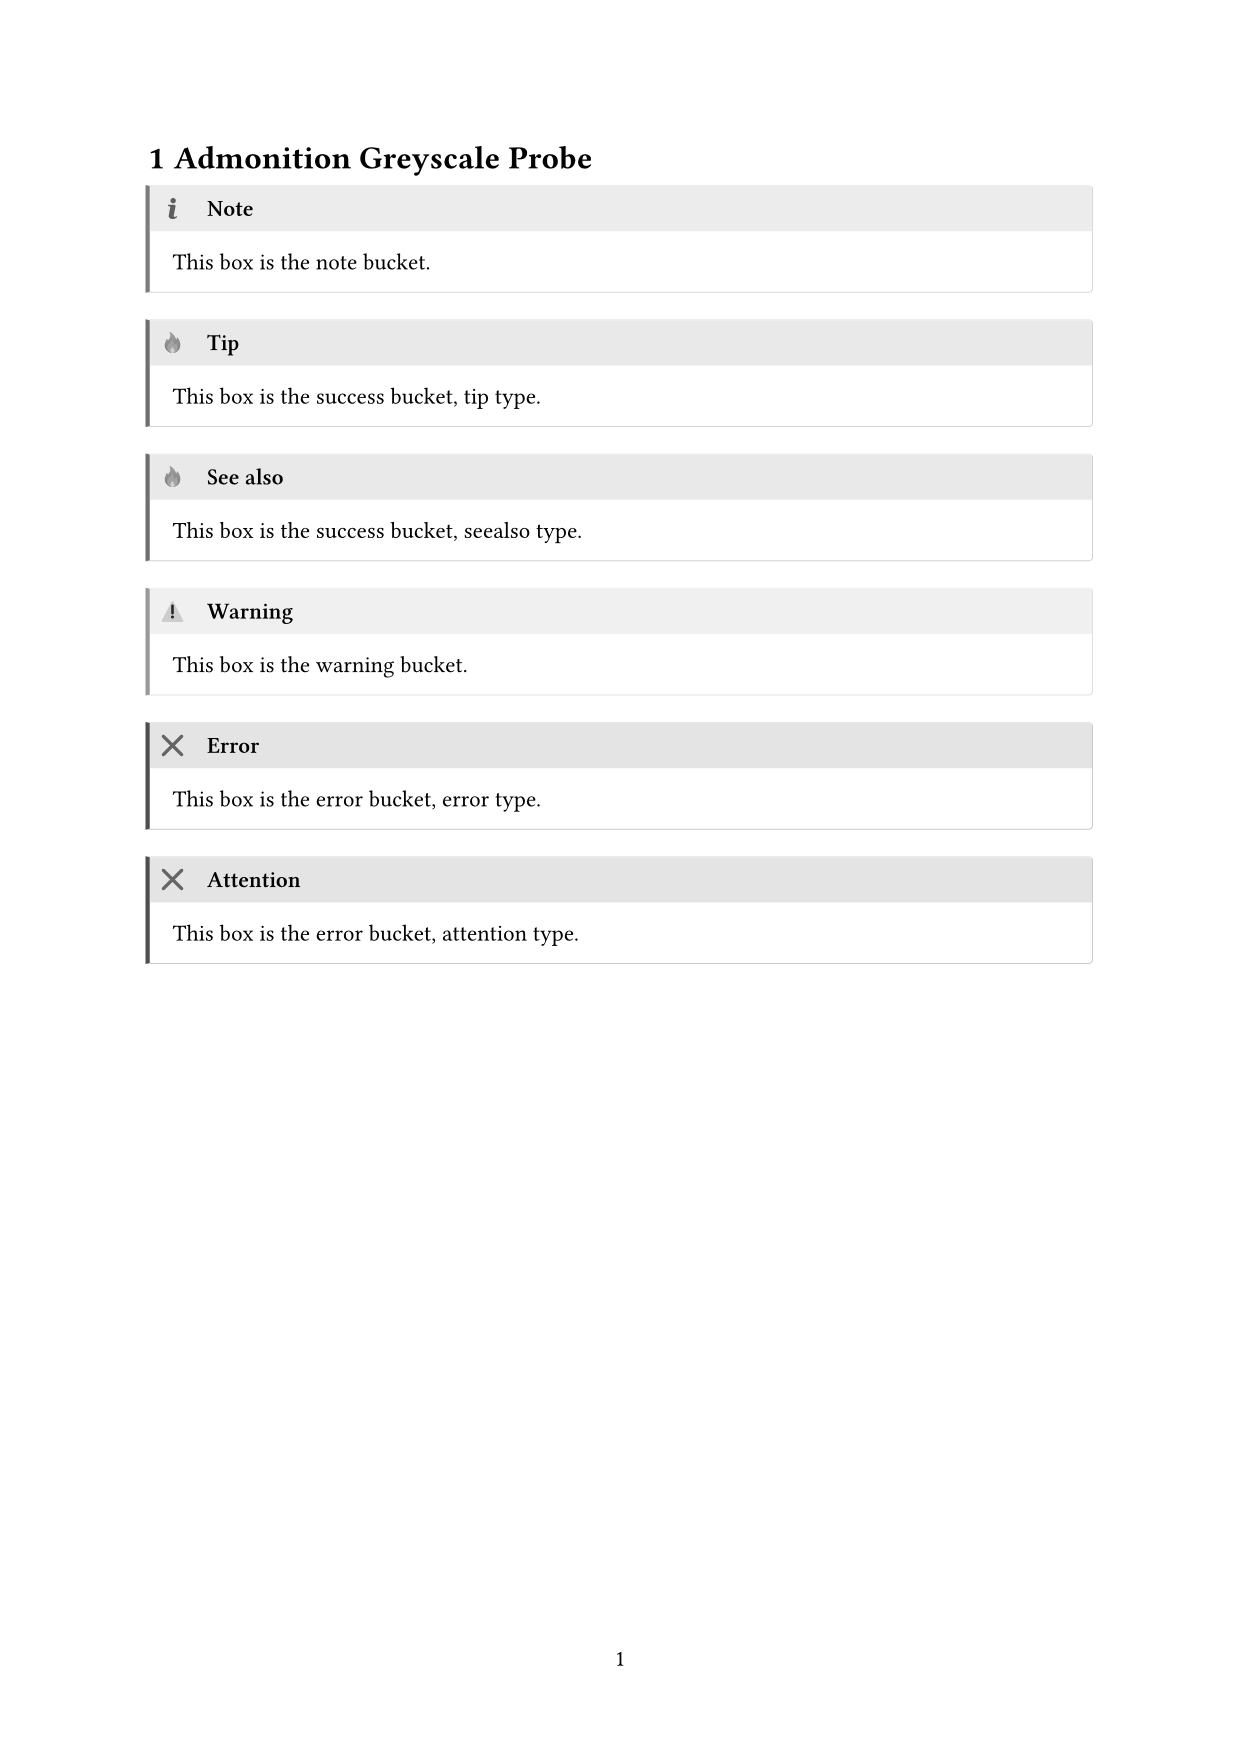
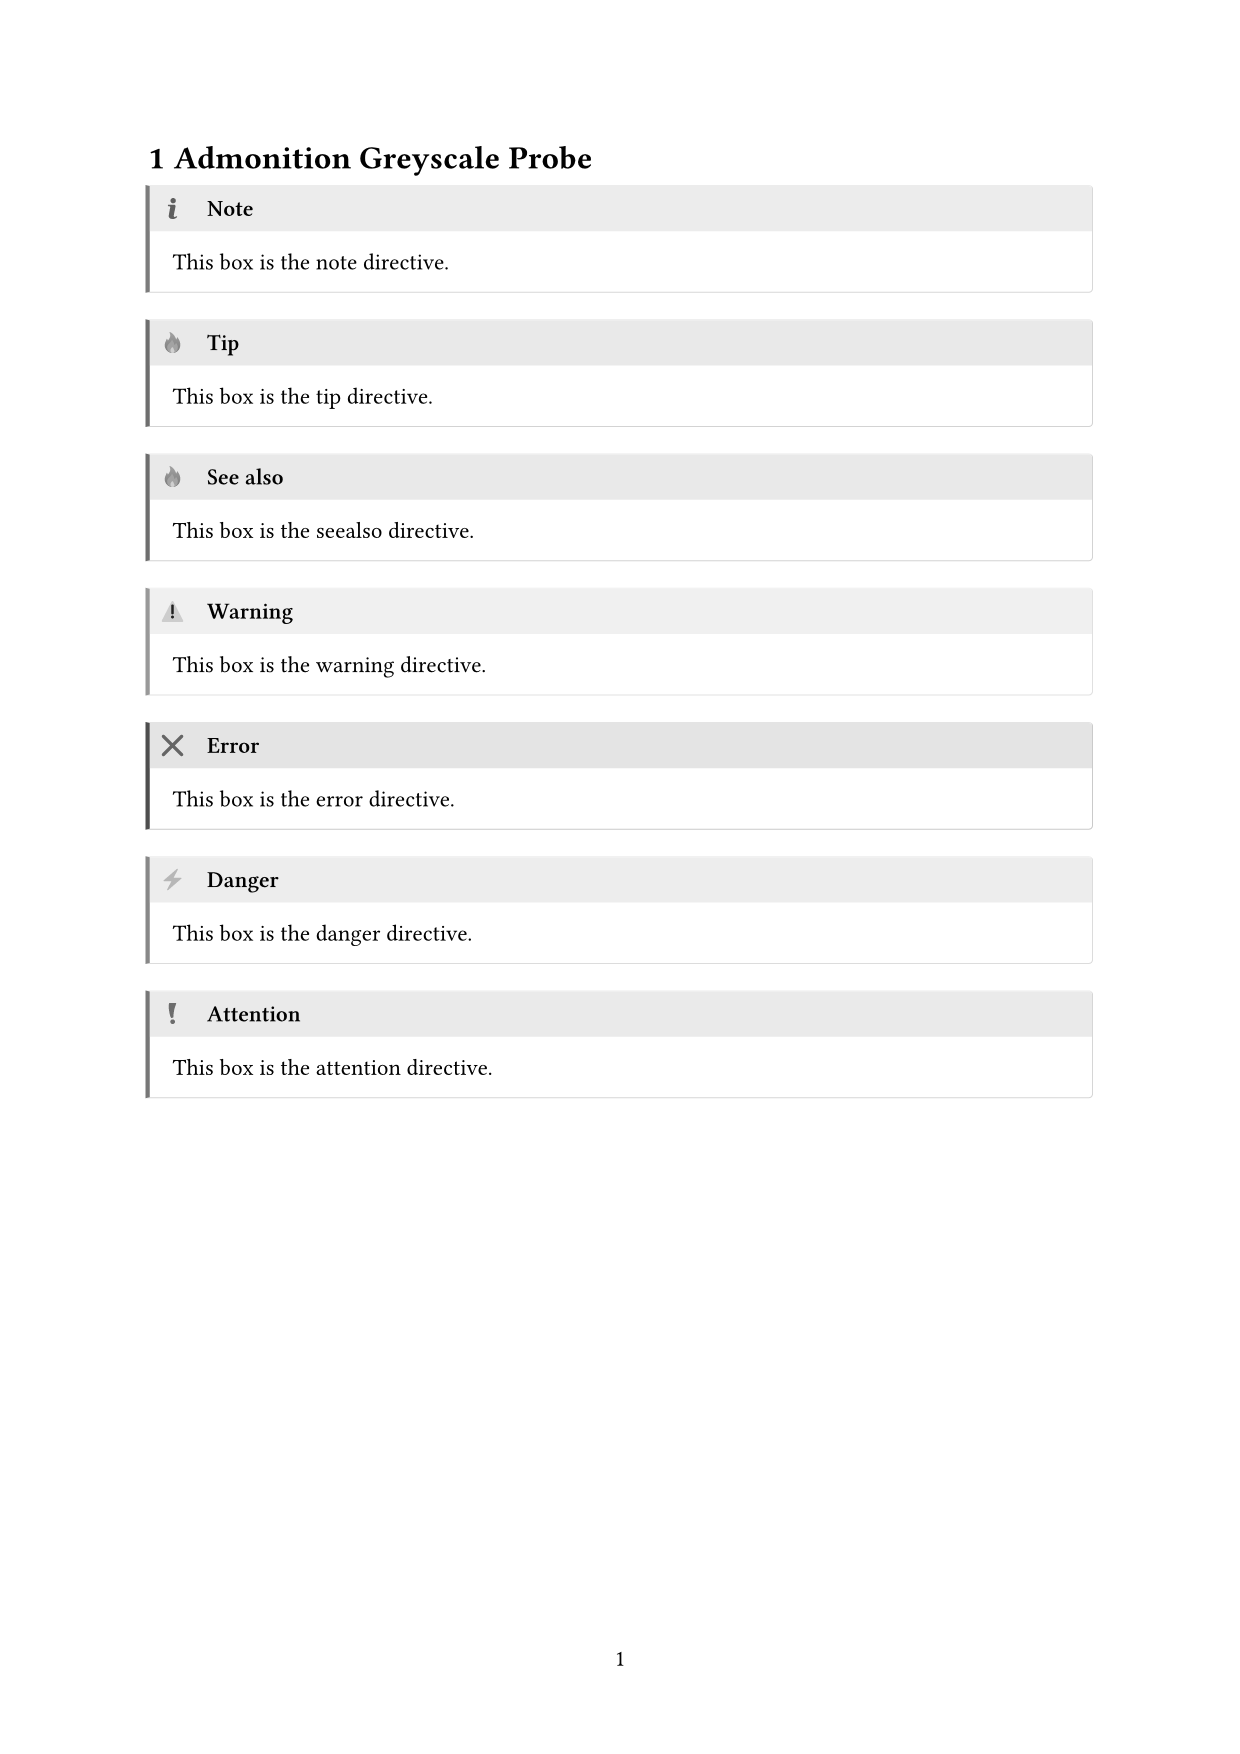
feat(39-12): extend greyscale probe to seven boxes, re-render from post-G-39-1 code
- Add a .. danger:: box and reorder the probe so error, danger and
  attention are contiguous, in that order, at the end of the document,
  after error/danger/attention (the red family sub-division landed by
  plan 39-11)
- Confirmed tests/test_admonition_bucket_render_gate.py and
  tests/test_admonition_locale_title_precedence_gate.py green (21/21)
  in this worktree BEFORE rendering, at base commit ca946697786c
- Re-rendered 39-ADM04-GREYSCALE.png (mode L, 1240x1754) from this
  worktree at the same base commit; bytes differ from the previously
  committed artifact (35570 -> 36051 bytes)
- This task produces evidence only; it does not verify ADM-04. That
  judgement is the owner's, at the checkpoint that follows.

diff --git a/tests/fixtures/admonition_greyscale_probe/index.rst b/tests/fixtures/admonition_greyscale_probe/index.rst
@@ -1,26 +1,39 @@
 Admonition Greyscale Probe
 ===========================
 
+.. This fixture now carries seven boxes: note, tip, seealso, warning, then
+   error, danger and attention -- the three red-family types -- deliberately
+   adjacent, in that order, at the end. Adjacency is the point: gap G-39-1
+   asks whether these three near-hue title bands separate once desaturated,
+   and that is harder to judge if unrelated boxes sit between them. Each
+   body is kept to one short line: seven boxes is one more than the fixture
+   was originally sized for, and the file is sized against a hard one-page
+   limit (39-RESEARCH.md Pitfall 4).
+
 .. note::
 
-   This box is the note bucket.
+   This box is the note directive.
 
 .. tip::
 
-   This box is the success bucket, tip type.
+   This box is the tip directive.
 
 .. seealso::
 
-   This box is the success bucket, seealso type.
+   This box is the seealso directive.
 
 .. warning::
 
-   This box is the warning bucket.
+   This box is the warning directive.
 
 .. error::
 
-   This box is the error bucket, error type.
+   This box is the error directive.
+
+.. danger::
+
+   This box is the danger directive.
 
 .. attention::
 
-   This box is the error bucket, attention type.
+   This box is the attention directive.
